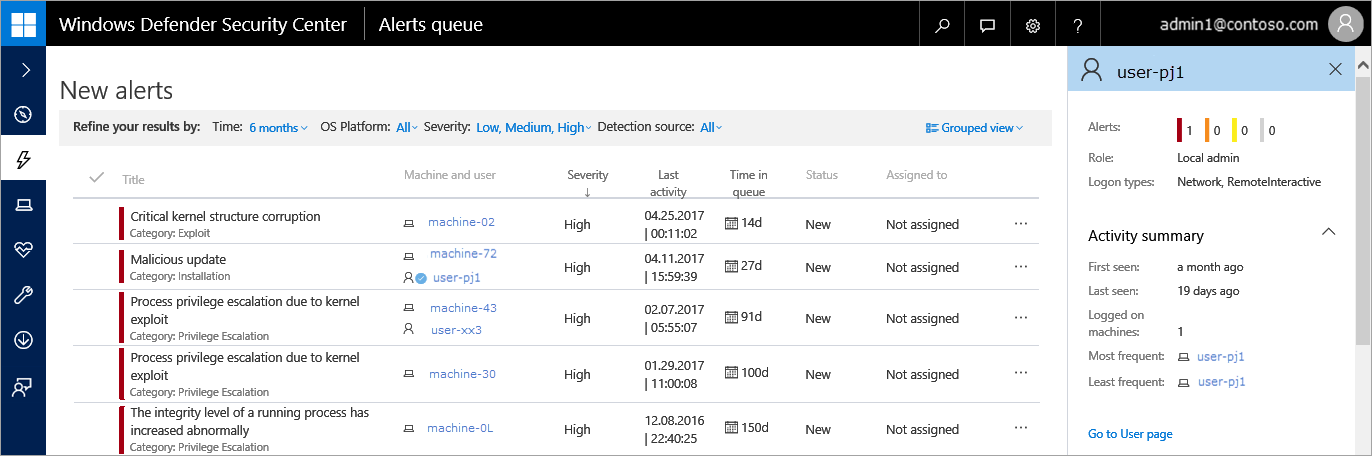
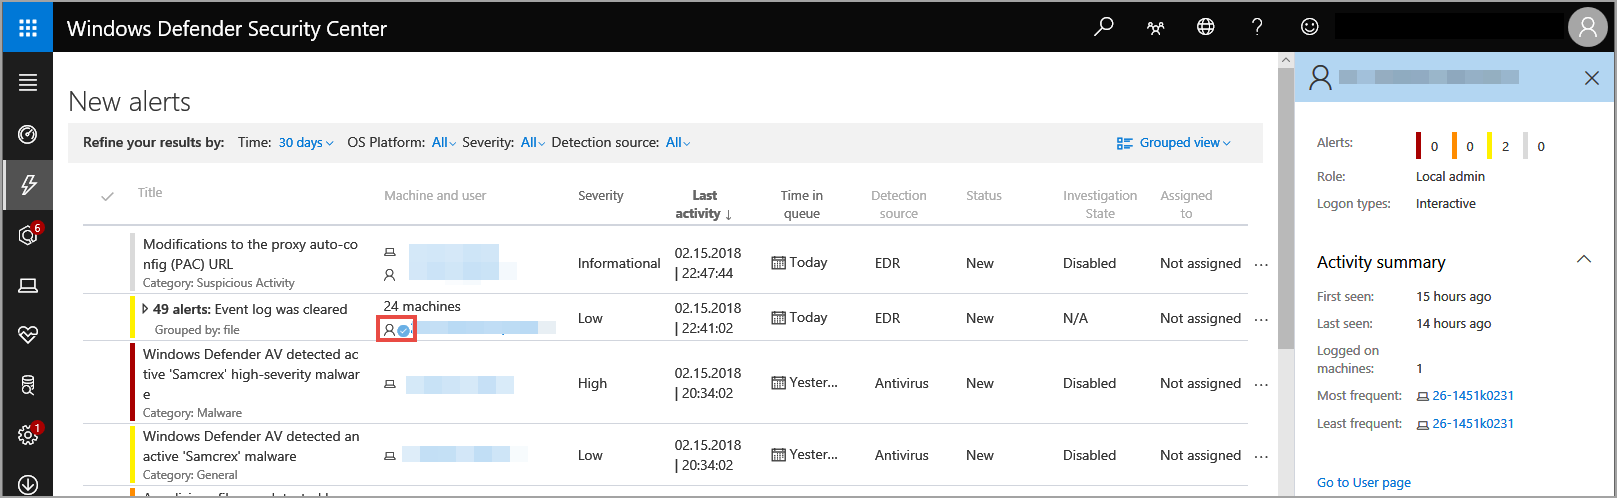
update images in alerts q

diff --git a/windows/security/threat-protection/windows-defender-atp/alerts-queue-windows-defender-advanced-threat-protection.md b/windows/security/threat-protection/windows-defender-atp/alerts-queue-windows-defender-advanced-threat-protection.md
@@ -42,10 +42,7 @@ To see a list of alerts, click any of the queues under the **Alerts queue** opti
 > [!NOTE]
 > By default, alerts in the queues are sorted from newest to oldest.
 
-![Image of alerts queue](images/atp-alertsq2.png)
-
-[JOEY: NEED TO UPDATE ALL IMAGES TO REFLECT ACTUAL NEW COLUMNS AND NAVIGATION PANE ETC!!!]
-
+![Image of alerts queue](images/atp-new-alerts-list.png)
 
 ##  Sort, filter, and group the alerts list
 You can sort and filter the alerts using the available filters or clicking on a column's header that will sort the view in ascending or descending order.
